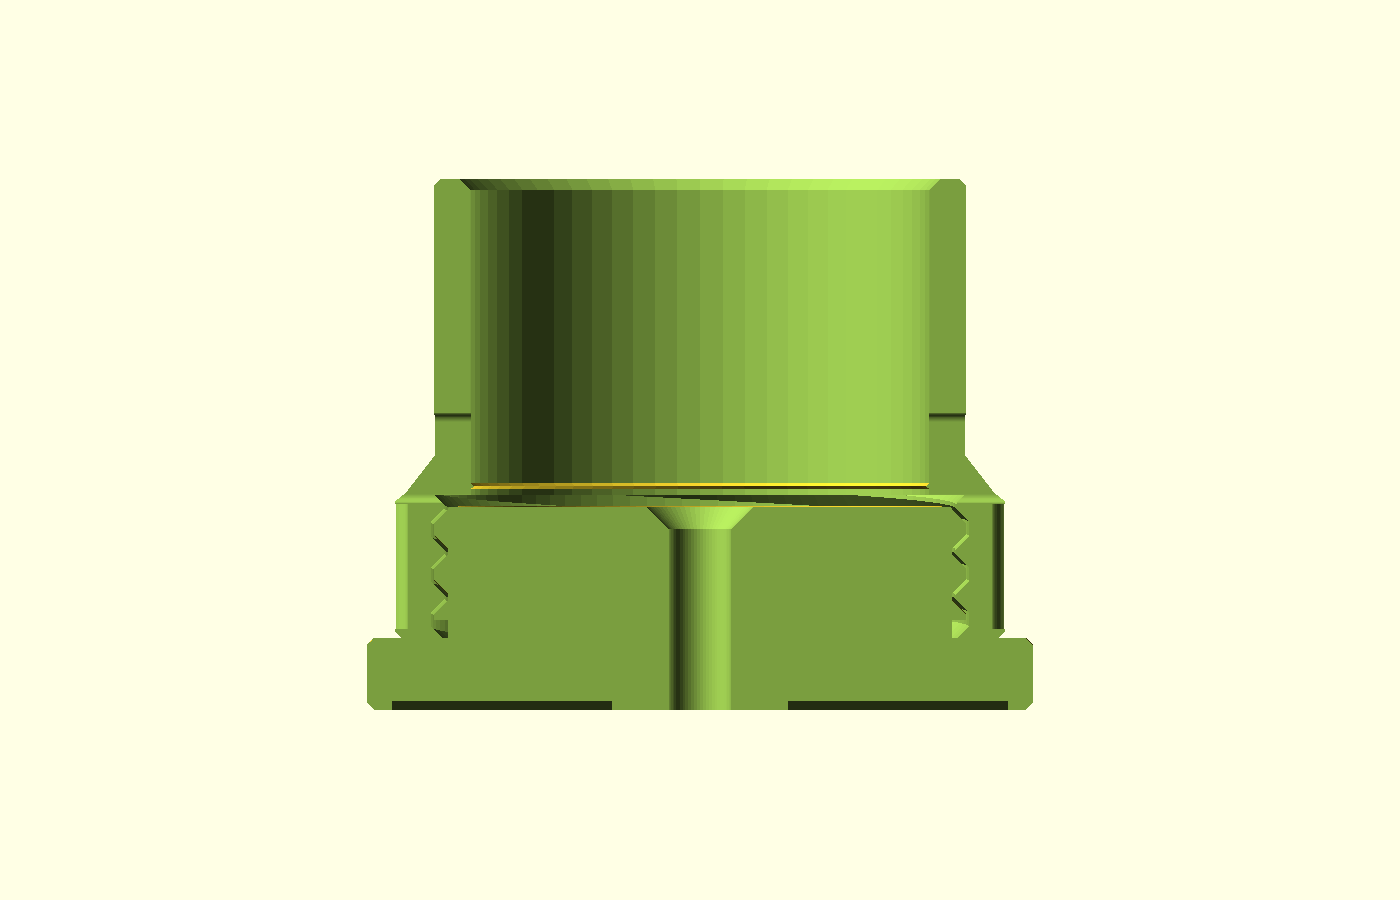
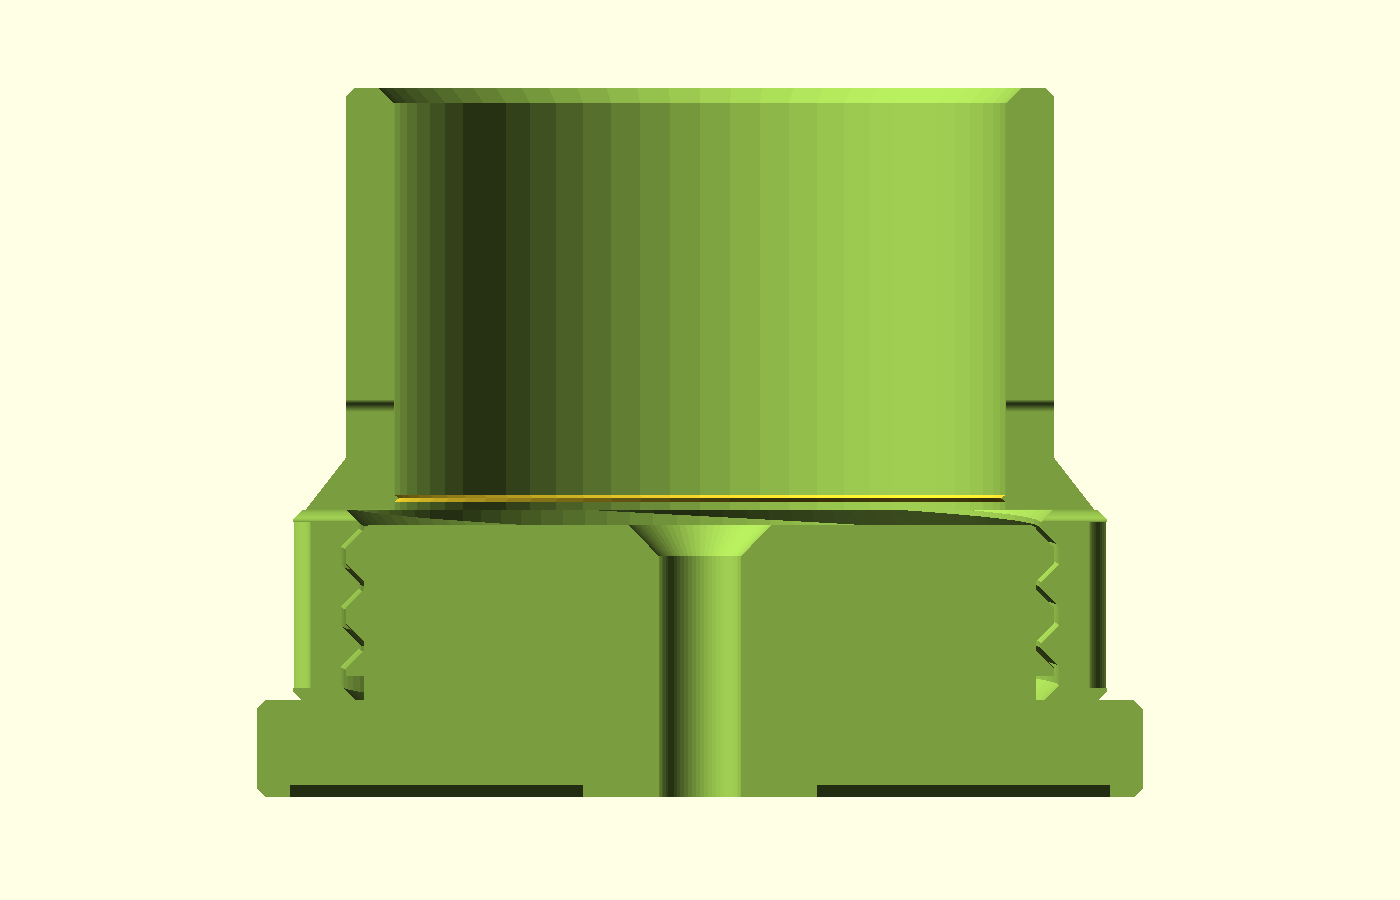
alcove-rod-socket: PM triage act-now — cutaway-wide dist=150 + README copy
Freeze-window: pull cutaway-wide camera dist 200→150 (flanges clear,
~18% side margins); regen cutaway-wide.png and rewrite .regen-stamp so
CI regen can skip on pull_request (#869). CAMERAS.md: boss rib → V-groove.

README act-now from PR #993 PM triage (d6bb3dd): seat_detent_radial
Material sentence + parameters row; *-25 collar annulus + print order;
screw_count=2 DIN 7991/straightedge; coupon no-brim; rim ~2.2/~1.6 flat;
groove-end blob with 0.8×1.6; brim witness-nub; step-3 Release flag +
rod-between-bosses + cut-long-toward-38 + deburr/PETG-ASA/phone-light;
v2 banner proving-print price; out-of-round measuring; omits the V-grooves.

Agent: Thread

Changed region(s): [[0.1843, 0.0933, 0.8293, 0.9022]]

diff --git a/designs/alcove-rod-socket/README.md b/designs/alcove-rod-socket/README.md
@@ -12,7 +12,8 @@ knurled collars that hand-thread onto the bosses. Curtains down for washing
 > printed **fused** in the field (a single STL of the two parts slices as one
 > welded body); v2 fixes the packaging (per-part STLs / plate as file format),
 > geometry unchanged — the proving print that confirms the customer-facing
-> cure (print, unthread, lift the rod) is still pending; see NOTES.md.
+> cure (print, unthread, lift the rod) is still pending (≈6¼ h / ~71 g
+> PLA-estimated for boss ×2 + collar + collar-shallow; see NOTES.md).
 > See *Deliverable* below and the field test log in NOTES.md.
 
 ![Product shot](previews/product-hero.png)
@@ -39,8 +40,8 @@ Printed **in pairs** (one holder per wall, one pair per rod):
   (no grooves; hold the flange when you torque, Assembly step 4). For heavier
   installs (a hung pair over ~10 kg — reasoned ceiling, not load-tested / not
   a measurement; see NOTES) set `screw_count=2` — that grows the flange for an
-  off-axis pair and **omits** the ribs (the two screws already pin the boss;
-  see Assembly). Gated **`boss-25`** is single-screw only (`screw_count=1`).
+  off-axis pair and **omits** the V-grooves (the two screws already pin the
+  boss; see Assembly). Gated **`boss-25`** is single-screw only (`screw_count=1`).
 
   ![Boss wall/bed face — eight anti-rotation V-grooves](previews/boss-bed.png)
 - `collar` — the rod socket: Ø54 × 40.6 mm knurled tube, internal printed
@@ -134,7 +135,11 @@ collar) fits any 150 mm bed; two pairs want the 256 × 256 mm P2S.
   half-percent shrink — still unproven until B4 (a material-specific
   preset is charter backlog B4). If that ASA coupon binds, the fix is a
   `thread_tol` change, which needs the clone/source path rather than the
-  Release STLs.
+  Release STLs. The seat detent is line-to-line by design; in ASA (or if
+  the rod stops dead instead of clicking) ease `seat_detent_radial` down
+  (e.g. 0.30 → 0.22–0.25) or set `seat_detent=false` — the shoulder is the
+  seat, the click is a nicety. Leave `rod_clearance` alone for that
+  symptom; it widens the whole bore.
 - **Layer height:** 0.2 mm, 0.4 mm nozzle.
 - **Perimeters:** 3 — the 3.2 mm walls carry the load.
 - **Seam:** Scarf (Bambu Studio) or Back — the default Aligned seam stacks a
@@ -145,29 +150,39 @@ collar) fits any 150 mm bed; two pairs want the 256 × 256 mm P2S.
 - **Bed adhesion:** brim the **collar** (and `collar-shallow`, and the
   **`*-25` collars**), per-object
   (Bambu Studio and most slicers brim per object — select just the collar).
-  Its first layer is a thin ~2.2 mm annular rim carrying a 40.6 mm tube, the
-  part that can lift; the boss doesn't need it — it prints flange-down on a
+  Its first layer is a thin ~2.2 mm annular rim (~1.6 mm of it flat after the
+  chamfers) carrying a 40.6 mm tube, the part that can lift; the **`*-25`
+  collar**'s own first-layer annulus is a Ø32 tube mouth under a ~Ø39 grip
+  band — not the 40 mm page's Ø47 / 40.6 — same per-object brim, same
+  kill-if-lifts. The boss doesn't need a brim — it prints flange-down on a
   full Ø58.8 disc (the anti-rotation keys are 0.8 mm 45° V-grooves in that
   disc — inner washer, outer rim, and the lands between still print on the
   bed). Layer-1 groove mouths print narrower than modeled (elephant foot
   pinches the 1.6 mm openings) — expected; the lands between still carry the
-  wall, so don't tune flow for it. Cheap insurance on the collar rim's own
-  merits (the v1 field failure was *packaging*, not adhesion — see NOTES.md
-  — so the plate is what fixes that; the brim is separate). If the rim's
-  outer edge starts lifting in the first centimeter, kill the print — more
-  brim won't save it mid-run, and a lifted rim is a cocked thread. A
-  per-object collar brim can't reach the ~5.7 mm gap to the boss, so nothing
-  bridges. (Brim the *whole plate* instead and the two brims may meet in one
-  web; it should peel clean, but that is **untested** — predicted, not
-  observed, and the proving print is what confirms it. Per-object avoids the
-  question.) Trim the collar's brim tabs flush and set it on a flat surface
-  to confirm the rim sits flat before threading it onto the boss — the rim
-  is both the bed-contact face and the seating face on the flange.
+  wall, so don't tune flow for it. Coupons need **no brim** — both bodies
+  land on full discs; an auto brim webs the 8 mm gap between them and snaps
+  free. Cheap insurance on the collar rim's own merits (the v1 field failure
+  was *packaging*, not adhesion — see NOTES.md — so the plate is what fixes
+  that; the brim is separate). If the rim's outer edge starts lifting in the
+  first centimeter, kill the print — more brim won't save it mid-run, and a
+  lifted rim is a cocked thread. A per-object collar brim can't reach the
+  ~5.7 mm gap to the boss, so nothing bridges. (Brim the *whole plate*
+  instead and the two brims may meet in one web; it should peel clean, but
+  that is **untested** — predicted, not observed, and the proving print is
+  what confirms it. Per-object avoids the question. There is **no** 25 mm
+  plate — mirror the 40 mm layout and brim only the collar.) Trim the
+  collar's brim tabs flush and set it on a flat surface to confirm the rim
+  sits flat before threading it onto the boss — the rim is both the
+  bed-contact face and the seating face on the flange. A proud ring of brim
+  witness nubs can pass that flat test while standing the collar ~0.1 mm off
+  the flange: one blade pass flat on the rim OD, then re-run the flat test.
 - **Boss print-check (grooved source prints):** after the first layer (or on
-  the finished boss), look at the eight V-grooves between the inner washer
-  and outer rim — they must still read as open mouths, not fused over by
-  elephant foot. A filled-in groove ships as a good-looking boss that spins;
-  that failure is silent unless you check.
+  the finished boss), look at the eight 0.8 × 1.6 mm V-grooves between the
+  inner washer and outer rim — they must still read as open mouths, not fused
+  over by elephant foot. A pea of plastic at a groove **end** counts as
+  filled-in, not "close enough" — a ten-second knife twirl clears it. A
+  filled-in groove ships as a good-looking boss that spins; that failure is
+  silent unless you check.
 - **Orientation:** print every part as rendered — boss flange-down, collar
   (and collar-shallow) rod-mouth-down (the internal thread prints at the top
   of the collar, never on the first layer). Never flip the collar
@@ -178,7 +193,10 @@ collar) fits any 150 mm bed; two pairs want the 256 × 256 mm P2S.
   (deep+shallow: two bosses, one `collar`, one `collar-shallow`). The bore
   and thread coupons prove slip and thread only — **not** the seat catch;
   print a **full collar** (not just the bore coupon) when you want to feel
-  the seat click or scrape before you hang the rod (NOTES.md D13).
+  the seat click or scrape before you hang the rod (NOTES.md D13). For
+  **25 mm:** `thread-coupon-25` + `bore-coupon-25` first, then a full
+  `collar-25` to feel the seat before hanging anything — no 25 mm plate;
+  mirror the 40 mm layout and brim only the collar.
 
 | Coupon | When |
 |---|---|
@@ -211,7 +229,10 @@ will too.
 ![The thread coupon — male stub and female ring side by side](previews/coupon.png)
 
 Measure your pole with calipers where it will sit and set `rod_d` to that
-barrel reading — "40 mm" is sometimes the finial size, not the pole.
+barrel reading — "40 mm" is sometimes the finial size, not the pole. Take
+two perpendicular readings at the seating end; if the end is swaged or the
+readings differ by more than ~0.2 mm, take the larger and expect a scrape
+rather than a click.
 
 ## Parameters
 
@@ -231,6 +252,7 @@ you'll export the fused assembly preview instead of a printable part):
 | `knurl_flutes` | 36 | grip flute count — guarded to keep flutes printable |
 | `wall` | 3.2 mm | structural wall everywhere |
 | `seat_detent` | on | annular catch at the rod seat — feel "fully in" |
+| `seat_detent_radial` | 0.30 mm | radial height of that catch (line-to-line at defaults); ease to 0.22–0.25 or set `seat_detent=false` if the rod stops dead — leave `rod_clearance` alone |
 | `witness_window` | on | two axial sight slots at the seat — see "fully in" |
 
 **Gated rod sizes:** **40 mm** (gated production size — coupon-proven; not yet
@@ -270,26 +292,38 @@ exports (`rod_d = 25.4` or your measured barrel) and the same `thread_tol` on
    the anchor does not ream out; they do not raise the load rating.
    **Plain** Release bosses do not — hold the flange when you torque the
    collar (step 4). Heavier curtains than that want a stud or
-   `screw_count=2`. On tile, masonry, or metal grooves cannot bite — use
-   `screw_count=2` (or `anti_rotate=false` for a flat flange you accept
-   may spin).
+   `screw_count=2`. For `screw_count=2`, use DIN 7991 / ISO 10642 M5 flat
+   heads (Ø9.4–9.5 seat flush in the Ø10.0 cone; heads >Ø10.0 park proud
+   under the collar rim) — lay a straightedge across both recesses before
+   threading the collar; any head above the flange face needs a deeper
+   countersink or a different screw. On tile, masonry, or metal grooves
+   cannot bite — use `screw_count=2` (or `anti_rotate=false` for a flat
+   flange you accept may spin).
 2. Slide the collars over the rod before hanging it — one at each end.
-3. Thread each collar onto its boss until the rim seats on the plate. Push
-   each rod end in until you feel a scrape or click past the seat ridge, then
-   bottom on the boss tip — that tactile catch is what the design targets,
-   but it is **unproven until the week-of-use proving print** (NOTES.md D13;
-   field test log). Look through the two thin slots at the grip band near the
-   flare: empty dark at the **seat end** of the slot means the tip is still
-   short of the boss; the tip edge appears there only when bottomed (the
-   witness starts 0.3 mm above the boss-tip stop, not the bore transition —
-   a rod ~1 mm short used to fill the window like a seated one). For a rigid
-   rod between two fixed walls: use one default `collar` (deep) and one
-   `collar-shallow` — push into the deep side, drop the shallow end in,
-   tighten both collars. Measure **wall-to-wall**, then cut the rod ≈
-   **40 mm shorter** (38–42 mm is the safe band): each end bottoms on its
-   boss tip 18 mm from that wall, so the seated rod spans nearly
-   wall-to-wall (hard stop is wall-to-wall − **36 mm**; the 40 mm short cut
-   leaves install slack).
+3. Thread each collar onto its boss until the rim seats on the flange.
+   **v2.0 Release collar has no detent and no witness slots** — bottom the
+   rod on the boss tip and trust your cut length (steps 1 and 4 already flag
+   their halves; use the clone path for the seat catch and slots). On a
+   source / post-B1 collar: push each rod end in until you feel a scrape or
+   click past the seat ridge, then bottom on the boss tip — that tactile
+   catch is what the design targets, but it is **unproven until the
+   week-of-use proving print** (NOTES.md D13; field test log). Deburr the
+   cut ends (or kiss a small chamfer onto each) before seating — a rolled
+   burr hangs on the detent. ASA: expect the click; PETG: expect the scrape
+   — both mean seated. Look through the two thin slots at the grip band near
+   the flare: empty dark at the **seat end** of the slot means the tip is
+   still short of the boss; the tip edge appears there only when bottomed
+   (the witness starts 0.3 mm above the boss-tip stop, not the bore
+   transition — a rod ~1 mm short used to fill the window like a seated
+   one). Hold a phone light against the far slot and look through the near
+   one — the tip edge's silhouette means bottomed. For a rigid rod between
+   two fixed walls: use one default `collar` (deep) and one
+   `collar-shallow` — lower the rod between the bosses, slide each collar
+   out to its boss, and thread it on. Measure **wall-to-wall**, then cut the
+   rod ≈ **40 mm shorter** (38–42 mm is the safe band; between sizes, cut
+   long toward 38 and trim): each end bottoms on its boss tip 18 mm from
+   that wall, so the seated rod spans nearly wall-to-wall (hard stop is
+   wall-to-wall − **36 mm**; the 40 mm short cut leaves install slack).
 4. To wash the curtains: unthread the collars (~1¼ turns each — 2-start
    thread) and lift the rod out. **Grooved bosses** (`anti_rotate` on, a
    source print): the wall-face lands resist that unthread torque on a

diff --git a/designs/alcove-rod-socket/previews/CAMERAS.md b/designs/alcove-rod-socket/previews/CAMERAS.md
@@ -18,7 +18,7 @@ once reviewed — add a line, never reframe one.
   through the boss. The internal-fit evidence shot.
 - **cutaway-wide** — orthographic diametral section (the +y half removed)
   face-on from +y: full flange-to-flange width in frame, the central
-  countersunk M5 in the section plane, and the boss rib / collar groove
+  countersunk M5 in the section plane, and the boss V-groove / collar groove
   mesh visible on both sides of the bore. Complements `cutaway` /
   `cutaway-section` without moving those frozen cameras.
 - **collar-print** — the collar alone in its print orientation, rod mouth
